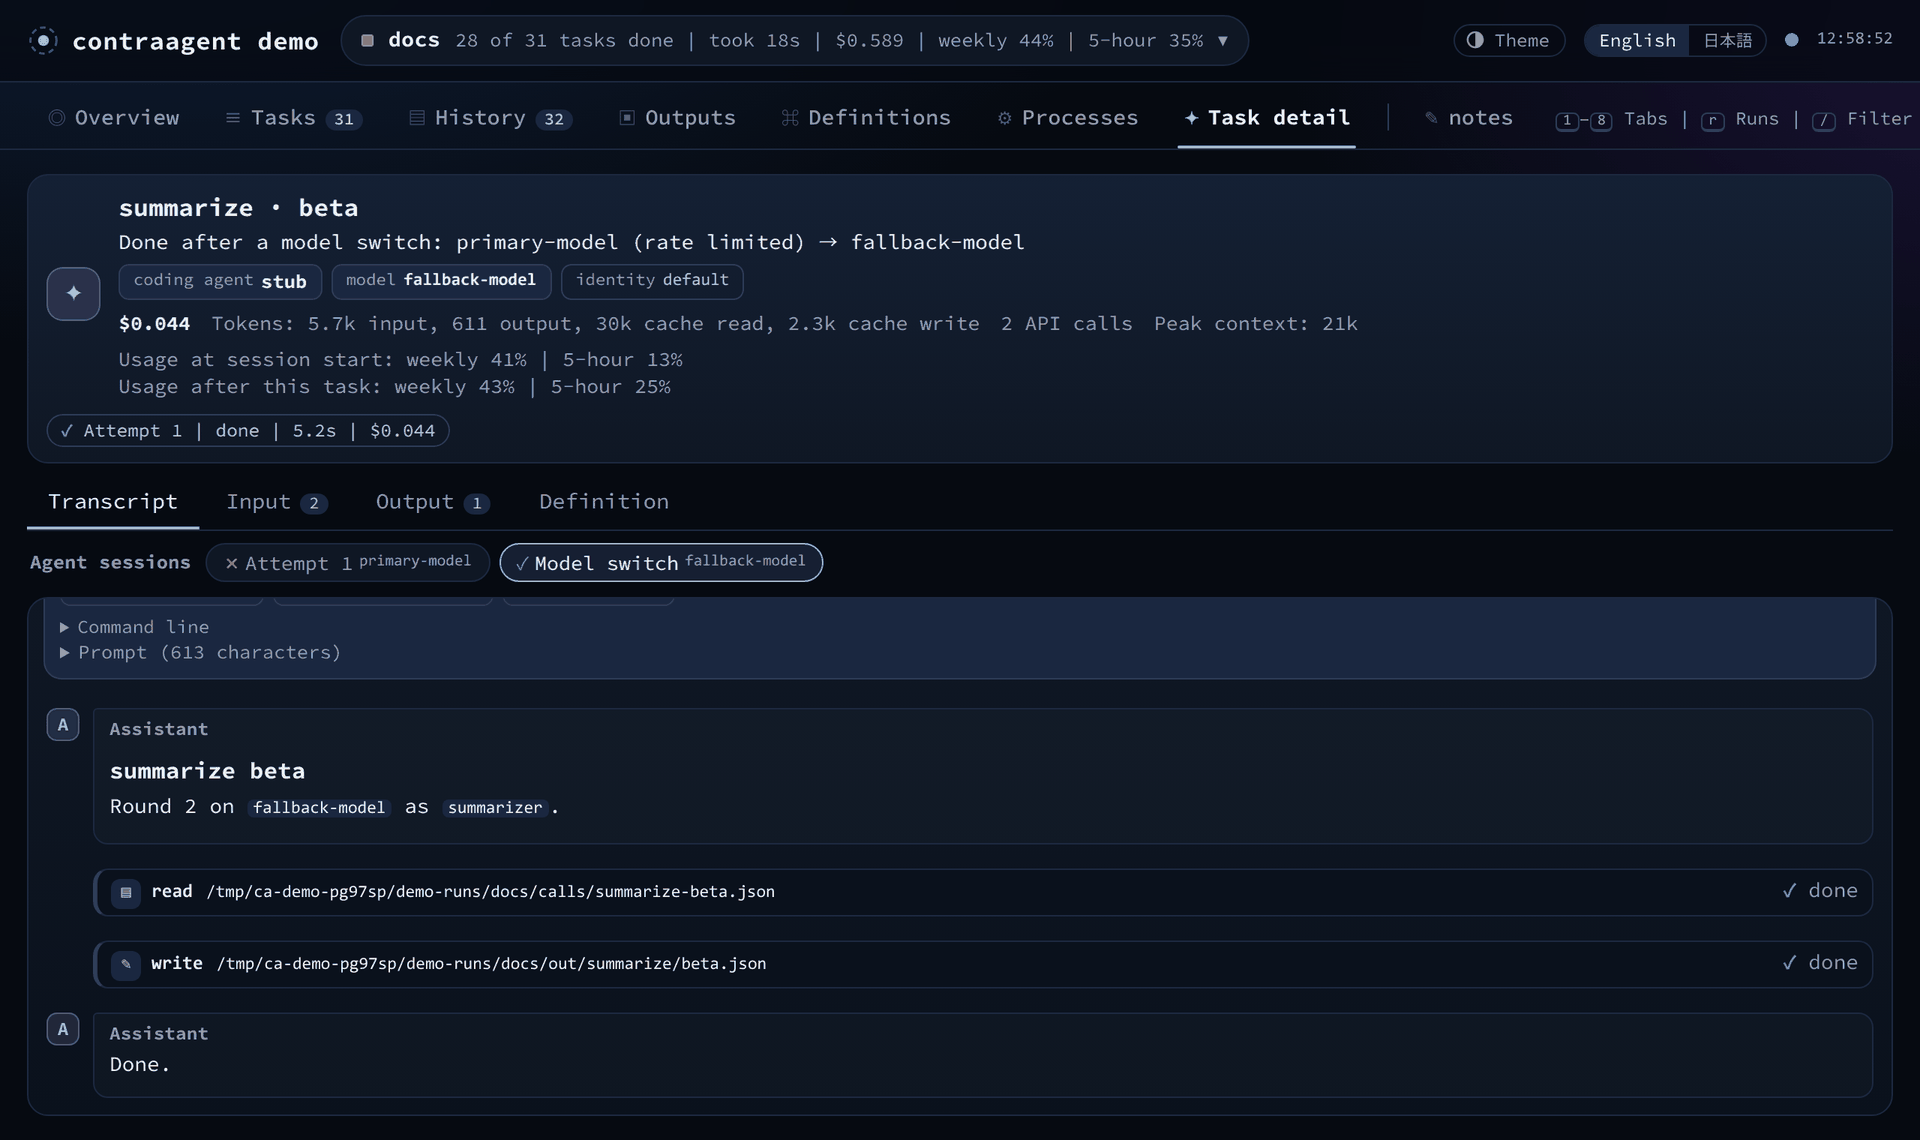
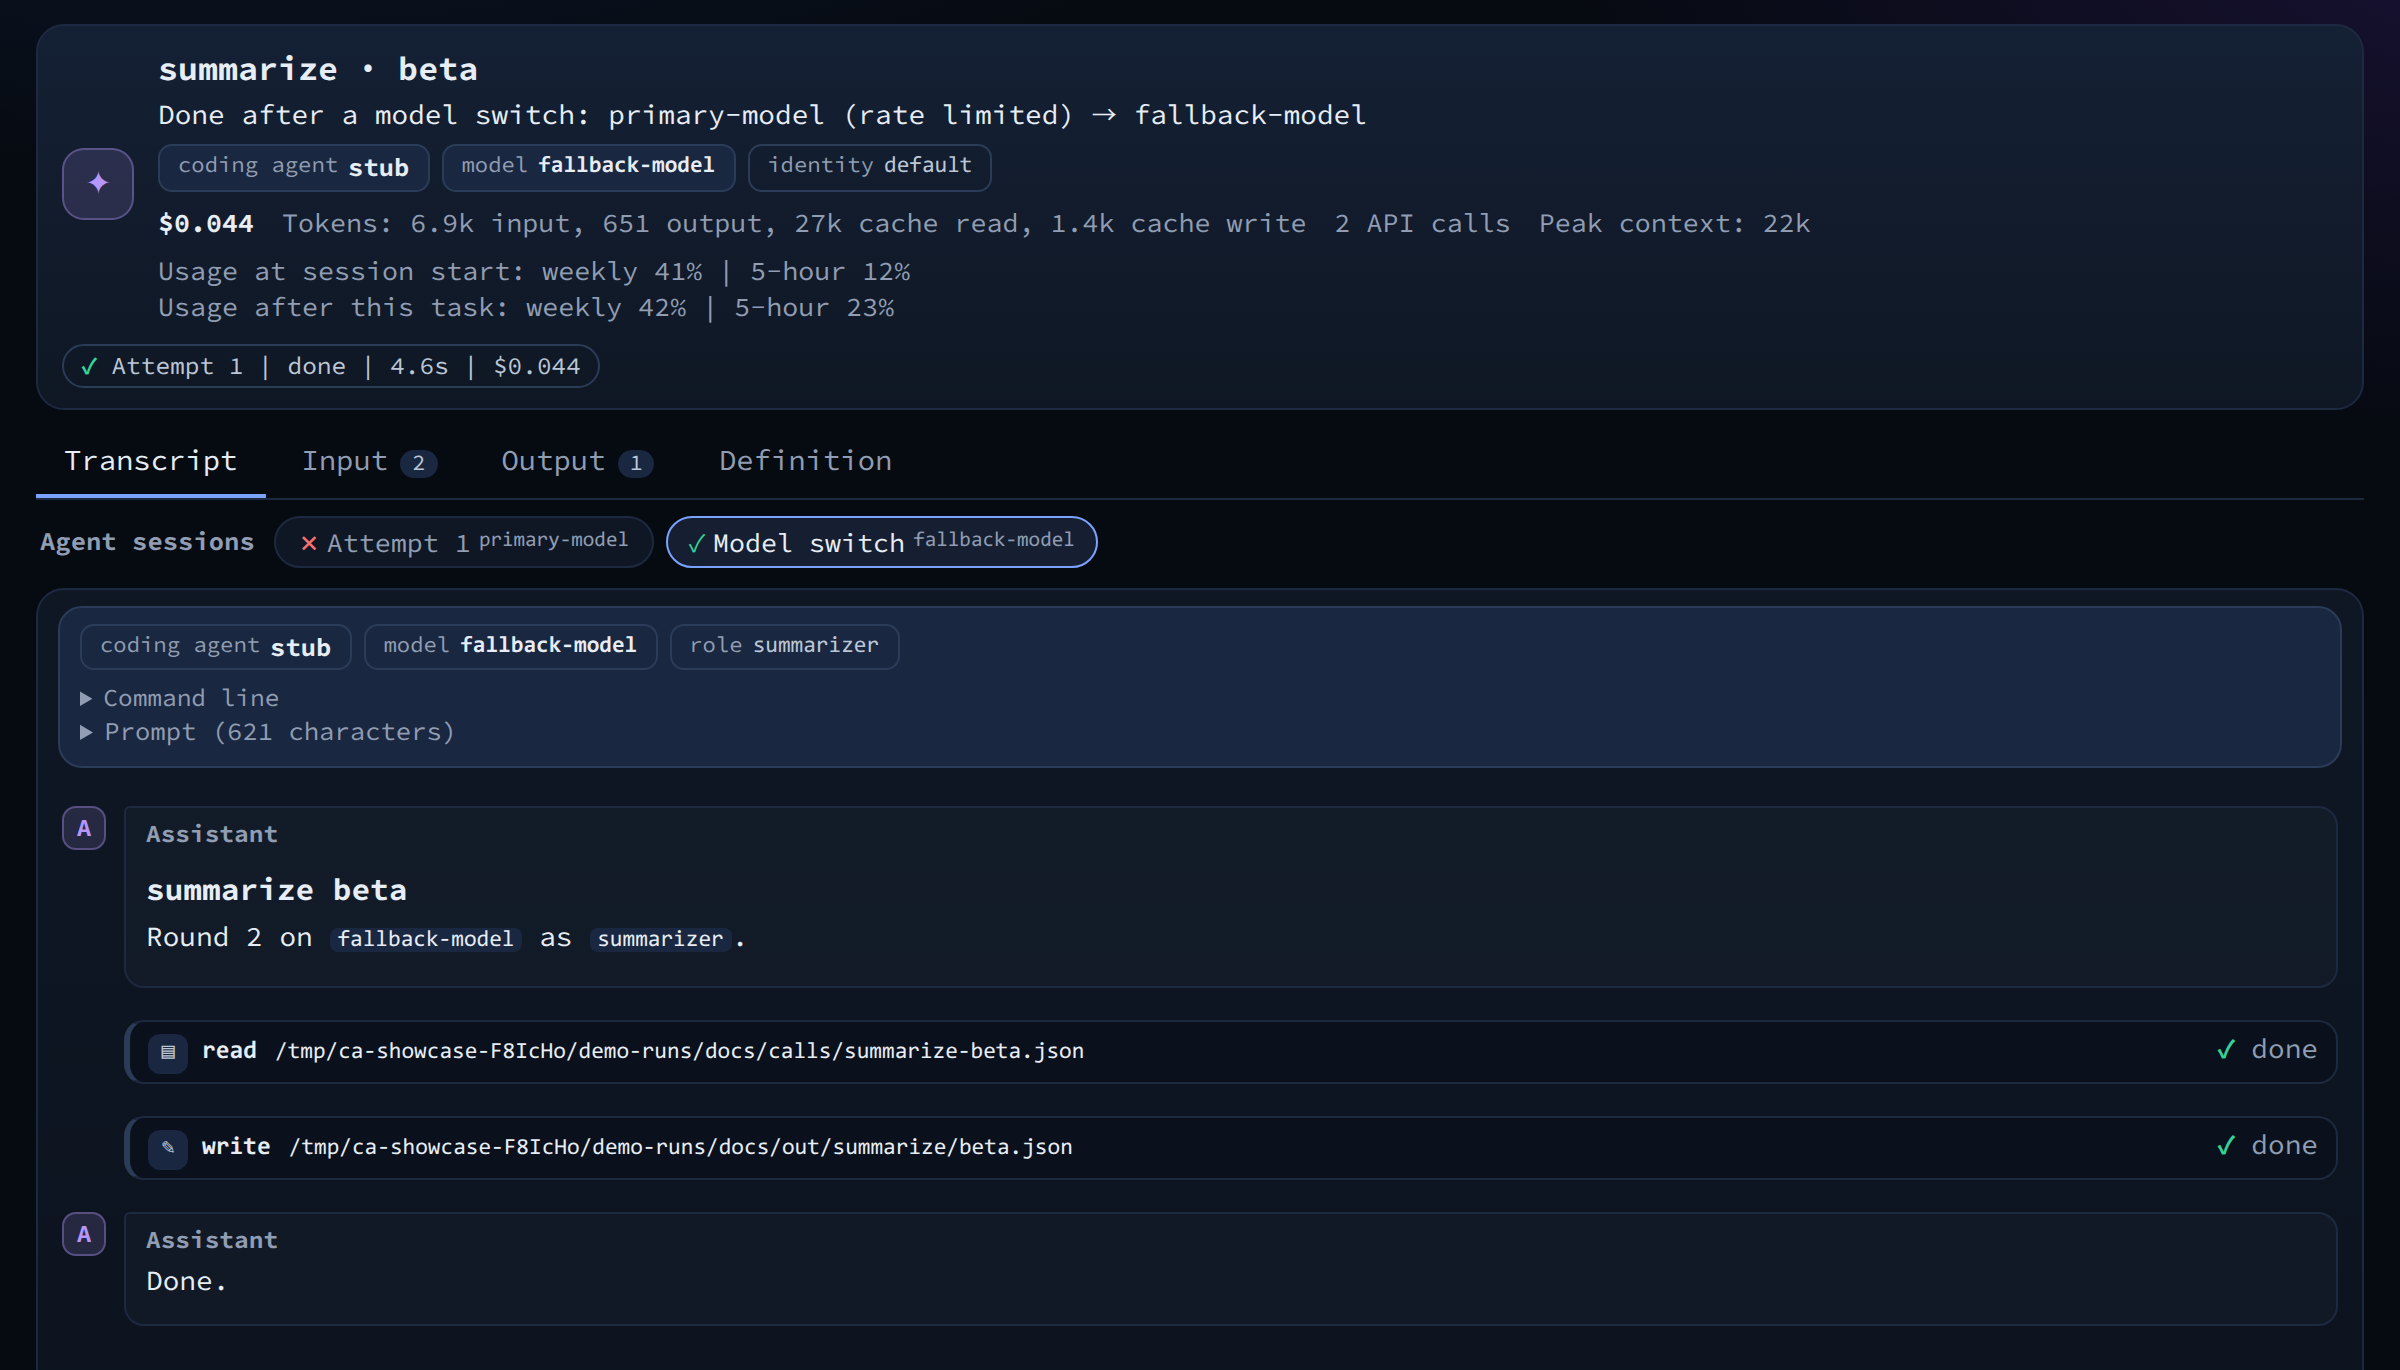
Take the README screenshots from a showcase run
web/scripts/showcase.py makes showcase runs of the demo pipelines in
which every task is done, with a correction, a model switch and a second
pass of the review loop where a screenshot is about them. Each
screenshot is the region of its view that matters, 1200 px wide at
device scale 2, in full color, and optimized losslessly with oxipng
(optimize_png.py, in place of shrink_png.py). The README shows each one
full width with a caption.

Changed region(s): [[0.0, 0.0, 1.0, 0.9518], [0.9062, 0.7368, 0.9688, 0.7982]]

diff --git a/web/scripts/showcase.py b/web/scripts/showcase.py
@@ -1,0 +1,49 @@
+"""The runs the root README's screenshots show (`screenshots.mjs` calls it).
+
+    uv run python web/scripts/showcase.py        # writes inputs/ and demo-runs/ in the current directory
+
+The demo pipeline on its demo agent (no coding agent, nothing spent), with units
+that all finish: every task is done. `beta`'s summary is rate limited on its first
+model and done after a model switch; `alpha`'s note and `delta`'s summary fail
+their checks once and are done after a correction in the same session; `gamma`'s
+first review does not approve, so its review loop runs a second pass. Then the
+nested `analyse` flow (three layers of flow calls, a loop inside a loop).
+"""
+
+from __future__ import annotations
+
+import logging
+import shutil
+from pathlib import Path
+
+from contraagent import Overrides, Pipeline
+from contraagent.docs.examples.analysis.flow import analyse
+from contraagent.docs.examples.demo.run import HERE, DemoAgent
+from contraagent.docs.examples.demo.tasks import docs
+
+UNITS = ("alpha", "beta", "gamma", "delta", "eta", "theta", "iota", "kappa")
+
+
+def main() -> None:
+    inputs = Path("inputs")
+    inputs.mkdir(exist_ok=True)
+    for u in UNITS:
+        (inputs / f"{u}.md").write_text(f"# {u}\nThe {u} component parses a config file, validates it and reports errors.\n")
+    for run_id in ("analyse", "docs"):
+        shutil.rmtree(Path("demo-runs", run_id), ignore_errors=True)
+
+    nested = Pipeline(None, runs_dir="demo-runs", backends={"stub": DemoAgent()}, overrides=Overrides(agent="stub"))
+    nested.run(analyse, bundles=["east", "west", "south"])
+
+    agent = DemoAgent()
+    # The demo's review of gamma fails twice before it succeeds (retries); the showcase
+    # starts it at its third round, so its first review completes (and does not approve).
+    agent.rounds["review-gamma"] = 2
+    report = Pipeline(HERE / "pipeline.toml", runs_dir="demo-runs", backends={"stub": agent}).run(docs, units=list(UNITS))
+    if report.failed or report.partial:
+        raise SystemExit(f"the showcase run has tasks not done: {[r.task.key for r in (*report.failed, *report.partial)]}")
+
+
+if __name__ == "__main__":
+    logging.basicConfig(level=logging.WARNING)
+    main()

diff --git a/web/scripts/optimize_png.py b/web/scripts/optimize_png.py
@@ -1,0 +1,23 @@
+"""Optimize screenshots in place, losslessly: every pixel stays as captured.
+
+    uv run --with pyoxipng python web/scripts/optimize_png.py FILE.png ...
+
+`screenshots.mjs` calls it after a capture.
+"""
+
+import sys
+from pathlib import Path
+
+import oxipng  # pyright: ignore[reportMissingImports]  # pyoxipng, given by `uv run --with`
+
+
+def main(names: list[str]) -> None:
+    for name in names:
+        path = Path(name)
+        before = path.stat().st_size
+        oxipng.optimize(path, level=4, strip=oxipng.StripChunks.safe())
+        print(f"{path.name}: {before // 1024} KiB -> {path.stat().st_size // 1024} KiB")  # noqa: T201
+
+
+if __name__ == "__main__":
+    main(sys.argv[1:])

diff --git a/README.md b/README.md
@@ -11,9 +11,9 @@ failover, quotas, deadlines, resume and a live monitor.
 ![Linux](https://img.shields.io/badge/platform-Linux-555)
 ![License: MIT](https://img.shields.io/badge/license-MIT-green)
 
-![The monitor's overview of a run: its state, problems with their causes, outputs, and the pipeline graph with a review loop](docs/assets/readme/overview.png)
+![The monitor's overview of a finished run: 44 of 44 tasks done, no problems, all 44 outputs passed their checks, the pipeline graph with a review loop, and the totals](docs/assets/readme/overview.png)
 
-<sub>The monitor over the shipped demo pipeline, run on its demo agent: one task failed, one was partly done, one was done after retrying, and a review loop ran a second pass for one unit.</sub>
+<sub>The monitor over the demo pipeline, run on its demo agent: every task done, every output checked; 2 outputs corrected in their own sessions, 1 model switch after a rate limit, and a review loop that ran a second pass for one unit.</sub>
 
 ## A task is a function whose body is a coding agent
 
@@ -148,16 +148,33 @@ or network access. When a task goes wrong, the run can be reproduced:
 recordings back in place of the coding agent with nothing spent, and a stub run
 or `contraagent.testing.StubAgent` in pytest replays scripted replies.
 
-| | |
-|---|---|
-| ![Task detail: the first agent session's output failed two checks; a correction passed](docs/assets/readme/task-detail.png) | ![Task detail in the dark theme: rate limited on the primary model, done after a model switch](docs/assets/readme/model-switch-dark.png) |
-| **Task detail.** The transcript of each agent session, followed live for all five coding agents, with the task's input, output and definition. Here the first output failed its checks, and the correction in the same session passed. | **Model switch.** Rate limited on its first model, the task moved to its fallback; each agent session keeps its own transcript, tokens and cost. |
-| ![History: every attempt with its outcome, coding agent, model, identity, tokens, cost and time](docs/assets/readme/history.png) | ![The pipeline graph of a nested flow: functions drawn open, a loop inside a loop](docs/assets/readme/pipeline-graph.png) |
-| **History.** Every attempt with its outcome, coding agent, model, identity, tokens, cost, time and reason, with counts of corrections and retries. | **Pipeline graph.** The flow by function and loop, a mark per unit, the passes of each loop; tasks that have not started are in it too. |
+**Checked, and corrected in the same session.** The task detail holds the
+transcript of each agent session with the task's input, output and definition.
+Here the note's first version failed two checks; the errors went back to the
+same session, and the correction passed: the task is done.
 
-Besides these: the problems of a run with their causes (a failed task names the
-later tasks it stopped), and the [Trends](docs/assets/readme/trends.png) page,
-which adds up the cost, tasks and models of the runs of a period.
+![Task detail of write_note · alpha, done after 1 correction: the first agent session's transcript, and the two checks its output failed](docs/assets/readme/task-detail.png)
+
+**Every attempt in the history.** One row per attempt: its outcome, coding agent,
+model, identity, tokens, cost and time. Here every summary is done; one after a
+correction, and one after a model switch from a rate-limited model to its
+fallback, which the later tasks of that kind then started on.
+
+![History of the summarize tasks: 8 attempts, all done; delta with 1 correction, beta after a model switch from primary-model (rate limited) to fallback-model](docs/assets/readme/history.png)
+
+**A model switch, session by session** (the dark theme): each agent session
+keeps its own transcript, tokens and cost.
+
+![Task detail of summarize · beta in the dark theme: done after a model switch, with the first agent session on primary-model and the second on fallback-model](docs/assets/readme/model-switch-dark.png)
+
+**The flow as it is written.** The pipeline graph draws the flow by function and
+loop, a mark per unit, the passes of each loop, and tasks that have not started.
+
+![Pipeline graph of a nested flow: a loop inside a loop, every task done](docs/assets/readme/pipeline-graph.png)
+
+**Trends** add up the runs of a period: cost by day and kind, tasks, models.
+
+![Trends over 7 days: 2 runs, 81 attempts, all passed, cost by day and kind, and a table of the kinds](docs/assets/readme/trends.png)
 
 Many hosts: `contraagent relay` on each host sends its runs to a
 `contraagent hub`, which serves one monitor over all of them

diff --git a/AGENTS.md b/AGENTS.md
@@ -348,7 +348,7 @@ pnpm dev                # live-reload UI against a monitor on :8787
 pnpm e2e                # build, then Playwright against the real monitor over the demo runs
 pnpm docs               # the documentation site, live reload
 pnpm i18n               # extract msg() strings to packages/ui/xliff, rebuild src/locales
-pnpm screenshots        # the root README's screenshots: the demo run, the real monitor, Playwright (about a minute)
+pnpm screenshots        # the root README's screenshots: the showcase runs (scripts/showcase.py), the real monitor, Playwright (about a minute)
 ```
 
 ## Documentation
@@ -387,7 +387,8 @@ version; nothing else holds that text.
   does not expand `::code`), each block after `<!-- ::code{...} -->` lines that
   `tests/test_docs.py` checks against the example files. Its screenshots in
   `docs/assets/readme/` (outside the package, and out of the sdist) come from the
-  demo pipeline: `pnpm --dir web screenshots` makes them again.
+  showcase runs of the demo pipelines (`web/scripts/showcase.py`, every task done):
+  `pnpm --dir web screenshots` makes them again.
 - `CHANGELOG.md` (Keep a Changelog) is written by towncrier: record a
   user-visible change as a fragment in `changelog.d/` (`<slug>.<type>.md`, or
   `+<slug>.<type>.md`; types `added`, `changed`, `deprecated`, `removed`,
